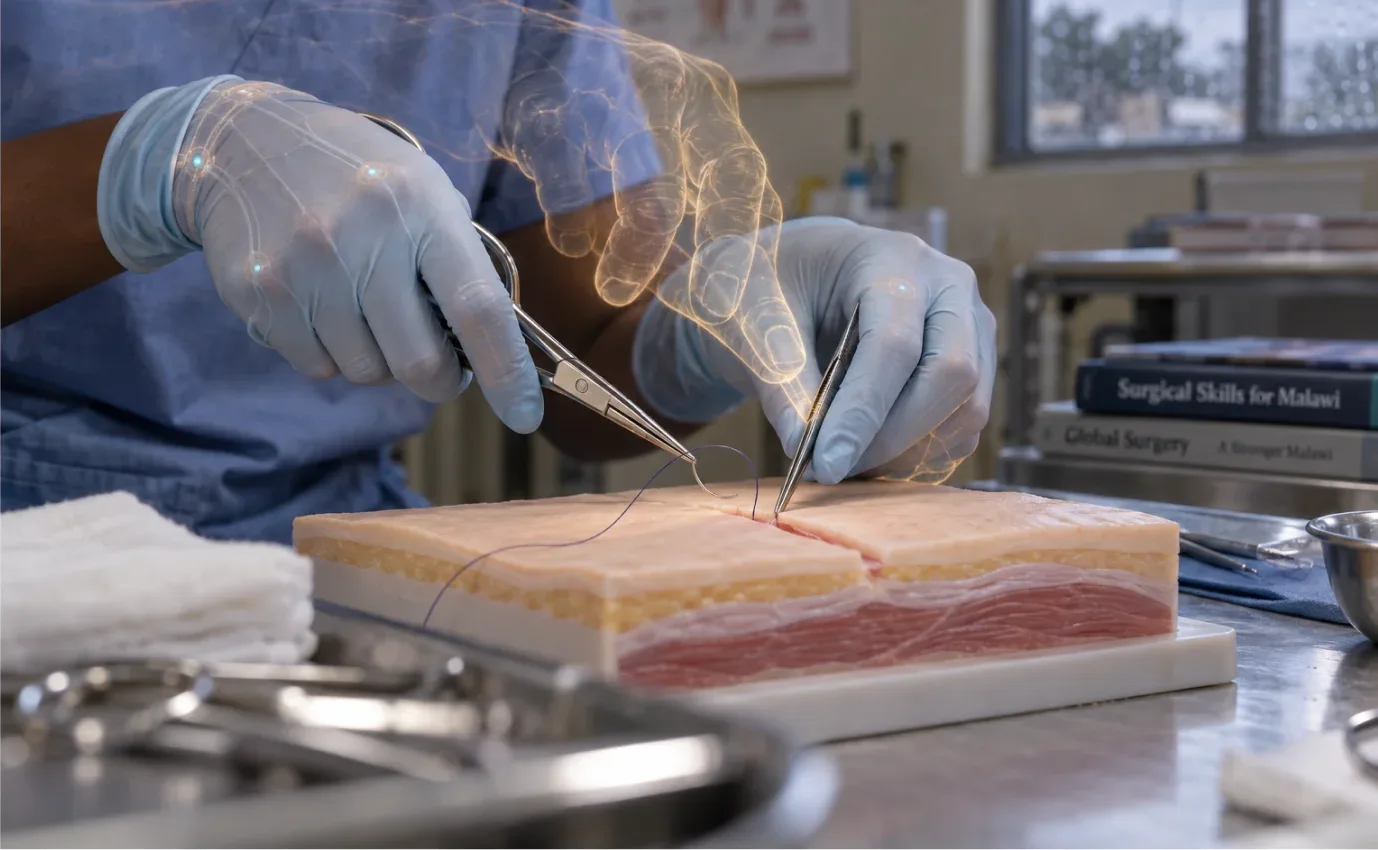
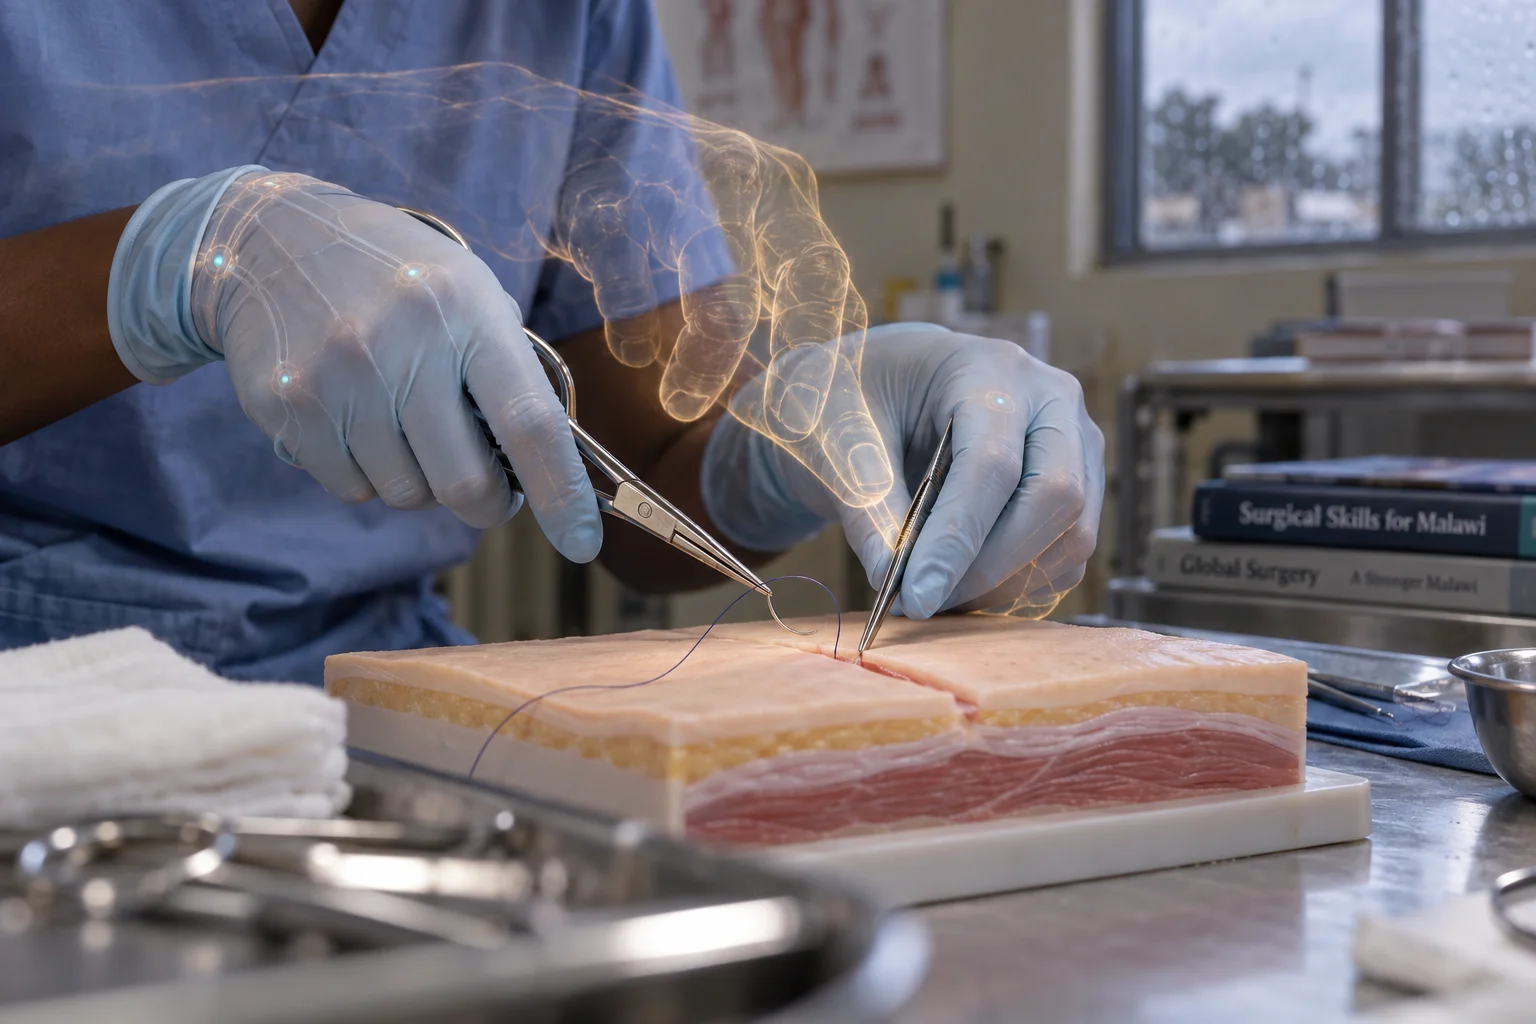
MORI: 과정 사진 고해상도 교체, 전환점 1 사진 네 장
- 페르소나·Memory Archive·브랜드 초안·시나리오 사진을 피그마 원본 해상도로 교체
- 전환점 1 사진을 2×2 네 장으로 (Memory Archive, 강서윤, Echo Room, TRACE)

diff --git a/mori/index.html b/mori/index.html
@@ -112,7 +112,12 @@
         <dt>이유</dt><dd>보는 기록은 이미 넘치는 미래. 빈자리는 몸이 기억하는 감각 쪽에 있음</dd>
       </dl>
     </div>
-    <div class="ev"><img src="img/s12/p_c.webp" alt="" loading="lazy" style="object-position:78% 40%"><img src="img/s12/p_archive.webp" alt="" loading="lazy"><img src="img/s12/j2.webp" alt="" loading="lazy" style="object-position:30% 50%"></div>
+    <div class="ev ev4">
+      <figure><img src="img/s12/p_archive.webp" alt="" loading="lazy"></figure>
+      <figure><img src="img/s12/p_c.webp" alt="" loading="lazy" style="object-position:72% 35%"></figure>
+      <figure><img src="img/s12/j2.webp" alt="" loading="lazy" style="object-position:35% 50%"></figure>
+      <figure><img src="img/s12/j1.webp" alt="" loading="lazy" style="object-position:30% 50%"></figure>
+    </div>
   </div>
 </section>
 <section class="slide paper" data-stop data-ch="00 How We Got Here">

diff --git a/mori/style.css b/mori/style.css
@@ -175,6 +175,9 @@ html::-webkit-scrollbar{display:none}
 .ev{display:grid;grid-template-columns:1fr 1fr;grid-template-rows:1fr 1fr;gap:calc(var(--u)*.8);min-height:0}
 .ev > :first-child{grid-row:span 2}
 .ev img{width:100%;height:100%;object-fit:cover;background:#ddd2c2}
+/* 사진 네 장을 2×2로 */
+.ev4 > :first-child{grid-row:auto}
+.ev4 figure{position:relative;min-height:0;margin:0}
 .ev.dropped figure{position:relative;min-height:0}
 .ev.dropped img{filter:grayscale(1);opacity:.5}
 .ev.dropped figcaption{position:absolute;left:10px;bottom:8px;margin:0;font-size:var(--ts);font-weight:600;color:var(--ink);text-decoration:line-through}
